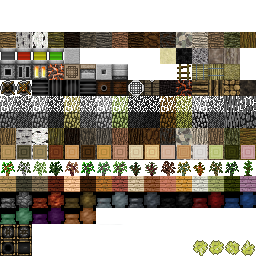
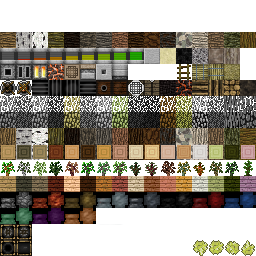
finished spawn meter

Changed region(s): [[0.0625, 0.1875, 0.625, 0.25]]

diff --git a/TFC_Shared/src/TFC/Core/Recipes.java b/TFC_Shared/src/TFC/Core/Recipes.java
@@ -20,11 +20,13 @@ public class Recipes
 	public static Item[] Saws;
 
 	public static Item[] Knives;
-	
+
 	public static Item[] MeltedMetal;
-	
-    public static Item[] Hammers;
-	
+
+	public static Item[] Hammers;
+
+	public static Item[] Gems;
+
 	public static void registerRecipes()
 	{
 		Item[] Ingots = {TFCItems.BismuthIngot, TFCItems.BismuthBronzeIngot,TFCItems.BlackBronzeIngot,
@@ -220,7 +222,7 @@ public class Recipes
 			ModLoader.addShapelessRecipe(new ItemStack(TFCItems.Flux, 2), new Object[] {new ItemStack(TFCItems.LooseRock, 1, 10), new ItemStack(Recipes.Hammers[j], 1, -1)});
 			ModLoader.addShapelessRecipe(new ItemStack(TFCItems.Flux, 6), new Object[] {new ItemStack(TFCItems.OreChunk, 1, 32), new ItemStack(Recipes.Hammers[j], 1, -1)});
 		}
-		
+
 		//Tool Rack
 		for(int j = 0; j < 16; j++)
 		{
@@ -288,9 +290,23 @@ public class Recipes
 		ModLoader.addRecipe(new ItemStack(Item.bread, 1), new Object[] { "PPP", Character.valueOf('P'), TFCItems.OatGrain});
 		ModLoader.addRecipe(new ItemStack(Item.bread, 1), new Object[] { "PPP", Character.valueOf('P'), TFCItems.RiceGrain});
 
+		for(int j = 0; j < Gems.length; j++)
+		{
+			for(int k = 0; k < 3; k++)
+			{
+				ModLoader.addRecipe(new ItemStack(TFCBlocks.SpawnMeter, 1), new Object[] { "PPP","GKG","PPP", 
+					Character.valueOf('P'), TFCBlocks.StoneIgExSmooth, Character.valueOf('K'), new ItemStack(Gems[j],1,0), Character.valueOf('G'), new ItemStack(Block.glass,1)});
+				ModLoader.addRecipe(new ItemStack(TFCBlocks.SpawnMeter, 1), new Object[] { "PPP","GKG","PPP", 
+					Character.valueOf('P'), TFCBlocks.StoneIgInSmooth, Character.valueOf('K'), new ItemStack(Gems[j],1,0), Character.valueOf('G'), new ItemStack(Block.glass,1)});
+				ModLoader.addRecipe(new ItemStack(TFCBlocks.SpawnMeter, 1), new Object[] { "PPP","GKG","PPP", 
+					Character.valueOf('P'), TFCBlocks.StoneSedSmooth, Character.valueOf('K'), new ItemStack(Gems[j],1,0), Character.valueOf('G'), new ItemStack(Block.glass,1)});
+				ModLoader.addRecipe(new ItemStack(TFCBlocks.SpawnMeter, 1), new Object[] { "PPP","GKG","PPP", 
+					Character.valueOf('P'), TFCBlocks.StoneMMSmooth, Character.valueOf('K'), new ItemStack(Gems[j],1,0), Character.valueOf('G'), new ItemStack(Block.glass,1)});
+			}
+		}
 		VanillaRecipes();
 	}
-	
+
 	private static void VanillaRecipes()
 	{
 		if(TFC_Settings.enableVanillaDiamondRecipe == true)
@@ -347,7 +363,7 @@ public class Recipes
 			RemoveRecipe(new ItemStack(Block.planks,4));
 		}
 	}
-	
+
 	public static void RemoveRecipe(ItemStack resultItem) {
 		List<IRecipe> recipes = CraftingManager.getInstance().getRecipeList();
 		for (int i = 0; i < recipes.size(); i++)

diff --git a/TFC_Shared/src/TFC/Core/TFC_Player.java b/TFC_Shared/src/TFC/Core/TFC_Player.java
@@ -19,7 +19,7 @@ public class TFC_Player extends ServerPlayerBase
 	public int lastChunkZ;
 	
 	//Last time the spawn protection was updated
-	private long spawnProtectionTimer = 0;
+	private long spawnProtectionTimer = -1;
 
 	public TFC_Player(ServerPlayerAPI var1) {
 		super(var1);
@@ -49,7 +49,7 @@ public class TFC_Player extends ServerPlayerBase
 			{
 				ChunkDataManager.setLastVisted(lastChunkX, lastChunkZ);
 				//Reset the timer since we've entered a new chunk
-				spawnProtectionTimer = TFC_Time.getTotalTicks();
+				spawnProtectionTimer = TFC_Time.getTotalTicks() + TFC_Time.hourLength;
 
 			}
 		}
@@ -72,22 +72,22 @@ public class TFC_Player extends ServerPlayerBase
 	{
 		if(!this.player.worldObj.isRemote)
 		{
+			if(spawnProtectionTimer == -1)
+				spawnProtectionTimer = TFC_Time.getTotalTicks() + TFC_Time.hourLength;
 			
 			if (this.player.worldObj.difficultySetting == 0 && this.player.getHealthField() < this.getMaxHealth() && this.player.ticksExisted % 20 * 12 == 0)
 	        {
 	            this.heal(1);
 	        }
 			
-			if(spawnProtectionTimer + TFC_Time.hourLength < TFC_Time.getTotalTicks())
+			if(spawnProtectionTimer < TFC_Time.getTotalTicks())
 			{
-				int t = (int) ((TFC_Time.getTotalTicks() - spawnProtectionTimer) / TFC_Time.hourLength);
-
 				//Add protection time to the chunks
 				for(int i = -1; i < 2; i++)
 				{
 					for(int k = -1; k < 2; k++)
 					{
-						ChunkDataManager.addProtection(lastChunkX + i, lastChunkZ + k, 7 * t);
+						ChunkDataManager.addProtection(lastChunkX + i, lastChunkZ + k, 6);
 					}
 				}
 				
@@ -119,7 +119,7 @@ public class TFC_Player extends ServerPlayerBase
         }
     }
 	
-	public int getMaxHealth()
+	public static int getMaxHealth()
     {
         return 100;
     }

diff --git a/TFC_Shared/src/TFC/TileEntities/TileEntitySpawnMeter.java b/TFC_Shared/src/TFC/TileEntities/TileEntitySpawnMeter.java
@@ -2,6 +2,7 @@ package TFC.TileEntities;
 
 import TFC.Chunkdata.ChunkDataManager;
 import TFC.Core.TFC_Time;
+import net.minecraft.src.TFCBlocks;
 import net.minecraft.src.TileEntity;
 
 public class TileEntitySpawnMeter extends TileEntity
@@ -20,18 +21,16 @@ public class TileEntitySpawnMeter extends TileEntity
 			if(timer < TFC_Time.getTotalTicks())
 			{
 				timer += TFC_Time.hourLength;
-				TFC.Chunkdata.ChunkData cd = ChunkDataManager.getData(xCoord, zCoord);
+				TFC.Chunkdata.ChunkData cd = ChunkDataManager.getData(xCoord >> 4, zCoord >> 4);
 				if(cd != null)
 				{
 					int protection = cd.spawnProtection;
-					if(protection <= 0)
-						worldObj.setBlockMetadata(xCoord, yCoord, zCoord, 0);
-					else if(protection > 0 && protection < 24)
-						worldObj.setBlockMetadata(xCoord, yCoord, zCoord, 1);
-					else if(protection >= 24 && protection < 168)
-						worldObj.setBlockMetadata(xCoord, yCoord, zCoord, 2);
-					else
-						worldObj.setBlockMetadata(xCoord, yCoord, zCoord, 3);
+					int meta = 0;
+					
+					meta = protection > 384 ? 8 : protection / 48;
+					
+					worldObj.setBlockAndMetadata(xCoord, yCoord, zCoord, TFCBlocks.SpawnMeter.blockID, meta);
+					worldObj.markBlockAsNeedsUpdate(xCoord, yCoord, zCoord);
 				}
 			}
 		}

diff --git a/TFC_Client/src/TFC/Core/ClientProxy.java b/TFC_Client/src/TFC/Core/ClientProxy.java
@@ -108,7 +108,6 @@ public class ClientProxy extends CommonProxy
 		RenderingRegistry.registerBlockHandler(TFCBlocks.leavesRenderId = RenderingRegistry.getNextAvailableRenderId(), new BlockRenderHandler());
 		RenderingRegistry.registerBlockHandler(TFCBlocks.detailedRenderId = RenderingRegistry.getNextAvailableRenderId(), new BlockRenderHandler());
 		RenderingRegistry.registerBlockHandler(TFCBlocks.toolRackRenderId = RenderingRegistry.getNextAvailableRenderId(), new BlockRenderHandler());
-		RenderingRegistry.registerBlockHandler(TFCBlocks.spawnMeterRenderId = RenderingRegistry.getNextAvailableRenderId(), new SpawnMeterRenderHandler());
 	}
 	
 	public void registerTileEntities(boolean b)
@@ -490,7 +489,7 @@ public class ClientProxy extends CommonProxy
 		LR.addStringLocalization("item.coke.name", "Coke");
 		LR.addStringLocalization("item.flux.name", "Flux");
 
-		LR.addStringLocalization("tile.SpawnMeter.name", "Spawn Meter");
+		LR.addStringLocalization("tile.SpawnMeter.name", "Protection Meter");
 		
 		RegisterTerrain();
 		RegisterMetal();

diff --git a/TFC_Shared/src/TFC/Handlers/PlayerTracker.java b/TFC_Shared/src/TFC/Handlers/PlayerTracker.java
@@ -1,5 +1,6 @@
 package TFC.Handlers;
 
+import TFC.Core.TFC_Player;
 import TFC.Core.TFC_PlayerMP;
 import net.minecraft.src.EntityPlayer;
 import net.minecraft.src.EntityPlayerMP;
@@ -10,8 +11,8 @@ public class PlayerTracker implements IPlayerTracker
 
 	@Override
 	public void onPlayerLogin(EntityPlayer player) {
-		TFC_PlayerMP playerMP = new TFC_PlayerMP((EntityPlayerMP) player);
-		player = playerMP;
+//		TFC_PlayerMP playerMP = new TFC_PlayerMP((EntityPlayerMP) player);
+//		player = playerMP;
 	}
 
 	@Override
@@ -28,9 +29,10 @@ public class PlayerTracker implements IPlayerTracker
 	@Override
 	public void onPlayerRespawn(EntityPlayer player) 
 	{
-		TFC_PlayerMP playerMP = new TFC_PlayerMP((EntityPlayerMP) player);
-		playerMP.setEntityHealth(playerMP.getMaxHealth());
-		player = playerMP;
+//		TFC_PlayerMP playerMP = new TFC_PlayerMP((EntityPlayerMP) player);
+//		playerMP.setEntityHealth(playerMP.getMaxHealth());
+//		player = playerMP;
+		player.setEntityHealth(TFC_Player.getMaxHealth());
 	}
 
 }

diff --git a/TFC_Client/src/TFC/Handlers/BlockRenderHandler.java b/TFC_Client/src/TFC/Handlers/BlockRenderHandler.java
@@ -119,10 +119,6 @@ public class BlockRenderHandler implements ISimpleBlockRenderingHandler
         {
             return RenderDetailed.renderBlockDetailed(block, i, j, k, renderer);
         }
-//        else if (modelId == TFCBlocks.spawnMeterRenderId)
-//        {
-//            return RenderSpawnMeter.render(block, i, j, k, renderer);
-//        }
 		return false;
 	}
 
@@ -142,10 +138,6 @@ public class BlockRenderHandler implements ISimpleBlockRenderingHandler
 	public void renderInventoryBlock(Block block, int metadata, int modelId,
 			RenderBlocks renderer) 
 	{
-//		if (modelId == TFCBlocks.spawnMeterRenderId)
-//        {
-//            RenderSpawnMeter.renderItem(block, metadata, renderer);
-//        }
 		
 	}
 

diff --git a/TFC_Shared/src/TFC/Blocks/BlockSpawnMeter.java b/TFC_Shared/src/TFC/Blocks/BlockSpawnMeter.java
@@ -13,21 +13,11 @@ public class BlockSpawnMeter extends BlockTerraContainer
 		this.setLightValue(0.25F);
 	}
 	
-	public int getRenderType()
-	{
-		return TFCBlocks.spawnMeterRenderId;
-	}
-	
 	public boolean isOpaqueCube()
 	{
 		return false;
 	}
-	
-	public boolean renderAsNormalBlock()
-	{
-		return false;
-	}
-	
+
 	@Override
 	public int damageDropped(int j) 
 	{
@@ -43,7 +33,7 @@ public class BlockSpawnMeter extends BlockTerraContainer
     public int getBlockTextureFromSideAndMetadata(int i, int j) 
     {
 		if(i < 2)
-			return blockIndexInTexture+4;
+			return blockIndexInTexture+9;
 		
 		return blockIndexInTexture+j;
     }

diff --git a/TFC_Shared/src/TFC/Core/TFCItems.java b/TFC_Shared/src/TFC/Core/TFCItems.java
@@ -1762,6 +1762,9 @@ public class TFCItems
                 TFCItems.WroughtIronHammer,TFCItems.RedSteelHammer,TFCItems.RoseGoldHammer,TFCItems.SteelHammer,
                 TFCItems.TinHammer,TFCItems.ZincHammer};
         
+        Recipes.Gems  = new Item[]{TFCItems.GemAgate, TFCItems.GemAmethyst, TFCItems.GemBeryl, TFCItems.GemDiamond, TFCItems.GemEmerald, TFCItems.GemGarnet, 
+        		TFCItems.GemJade, TFCItems.GemJasper, TFCItems.GemOpal,TFCItems.GemRuby,TFCItems.GemSapphire,TFCItems.GemTopaz,TFCItems.GemTourmaline};
+        
         if (config != null) {
             config.save();
         }

diff --git a/TFC_Shared/src/TFC/Chunkdata/ChunkDataManager.java b/TFC_Shared/src/TFC/Chunkdata/ChunkDataManager.java
@@ -55,7 +55,7 @@ public class ChunkDataManager
 			ChunkData d = (ChunkData) chunkmap.get(x + "," + z);
 			if(d != null)
 			{
-				if(d.spawnProtection < 4320)
+				if(d.spawnProtection < 24*TFC_Time.daysInMonth*6)
 					d.setSpawnProtectionWithUpdate(amount);
 				return true;
 			}

diff --git a/TFC_Shared/src/net/minecraft/src/TFCBlocks.java b/TFC_Shared/src/net/minecraft/src/TFCBlocks.java
@@ -43,7 +43,6 @@ public class TFCBlocks
 	public static int cookingPitRenderId;
 	public static int leavesRenderId;
 	public static int detailedRenderId;
-	public static int spawnMeterRenderId;
 	
 	public static Block StoneIgIn;
 	public static Block StoneIgEx;
